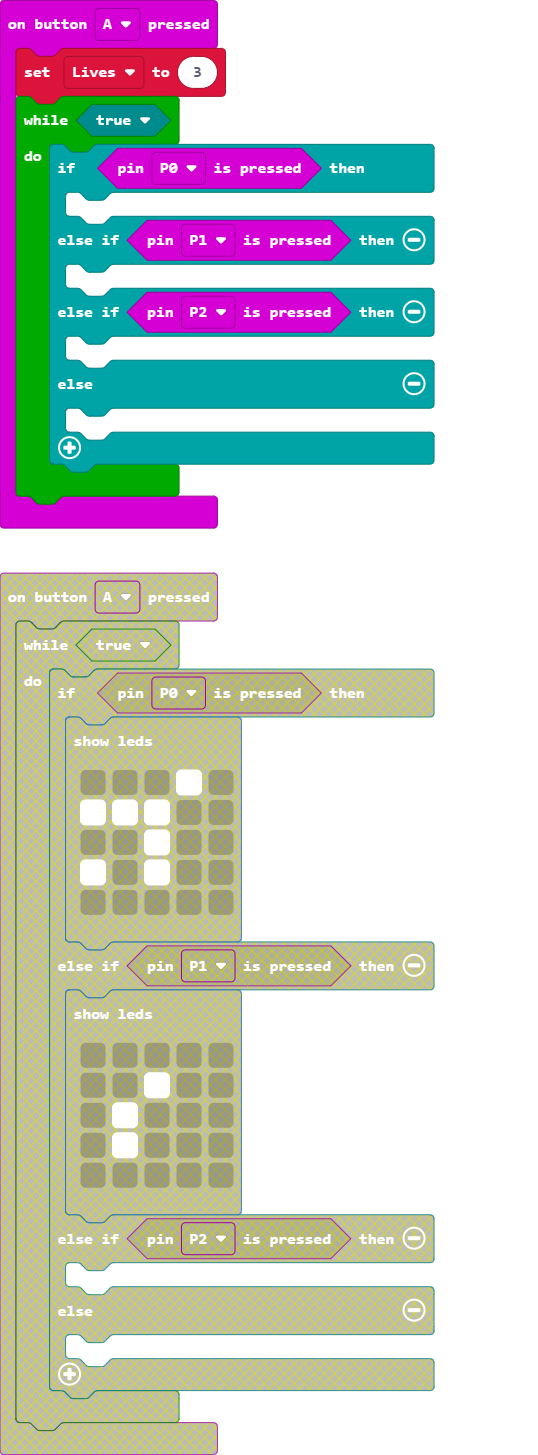
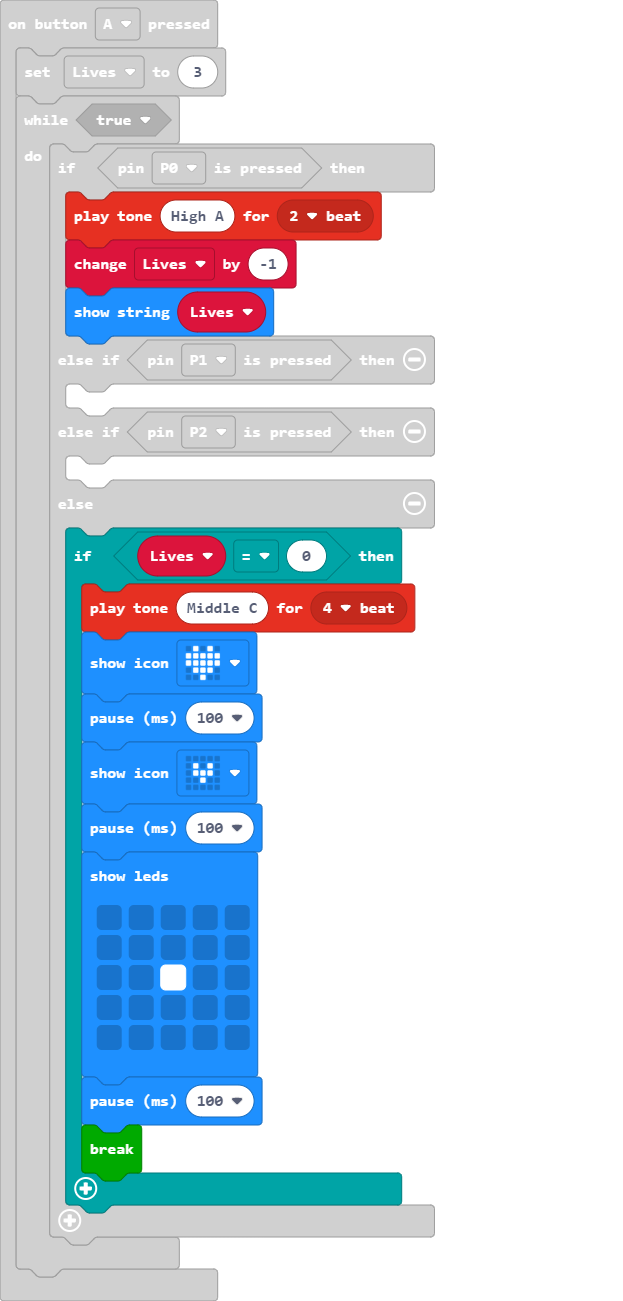
Update main.blocks, main.ts

diff --git a/main.ts b/main.ts
@@ -3,13 +3,30 @@ input.onButtonPressed(Button.A, function () {
     Lives = 3
     while (true) {
         if (input.pinIsPressed(TouchPin.P0)) {
-        	
+            music.playTone(880, music.beat(BeatFraction.Double))
+            Lives += -1
+            basic.showString("" + (Lives))
         } else if (input.pinIsPressed(TouchPin.P1)) {
         	
         } else if (input.pinIsPressed(TouchPin.P2)) {
         	
         } else {
-        	
+            if (Lives == 0) {
+                music.playTone(262, music.beat(BeatFraction.Breve))
+                basic.showIcon(IconNames.Heart)
+                basic.pause(100)
+                basic.showIcon(IconNames.SmallHeart)
+                basic.pause(100)
+                basic.showLeds(`
+                    . . . . .
+                    . . . . .
+                    . . # . .
+                    . . . . .
+                    . . . . .
+                    `)
+                basic.pause(100)
+                break;
+            }
         }
     }
 })
